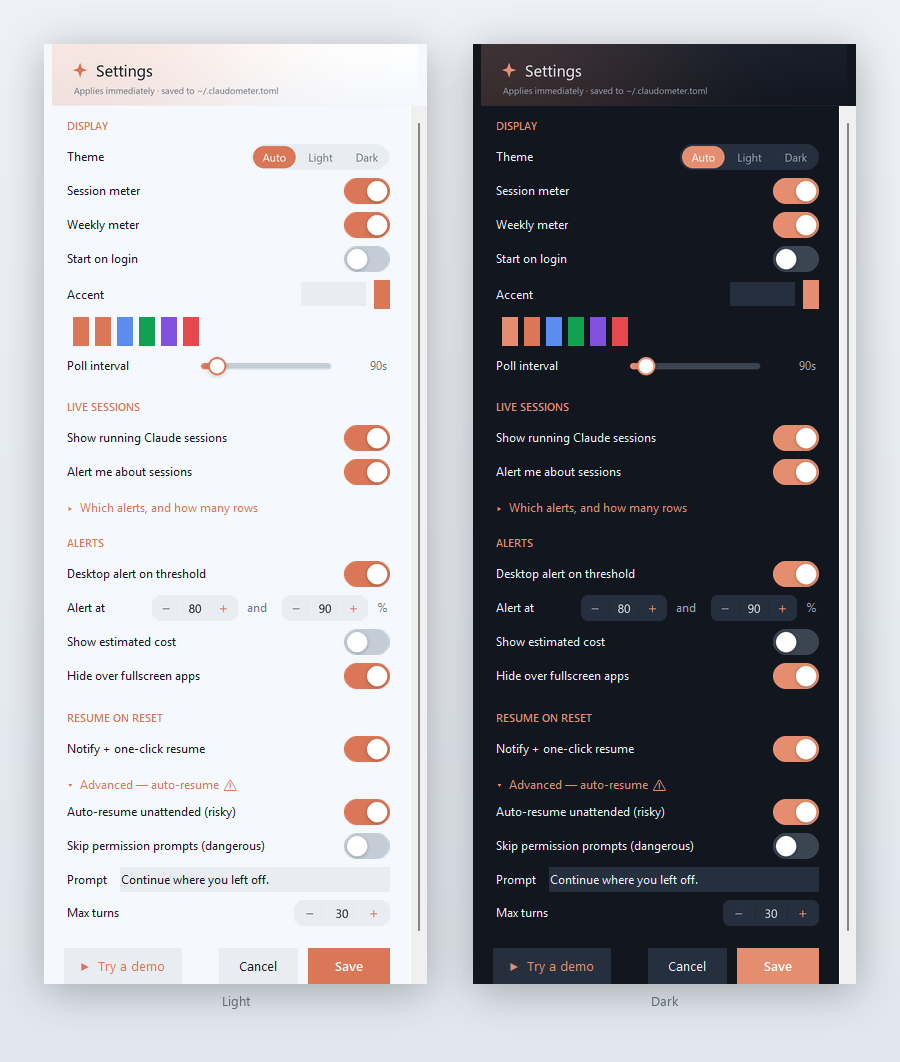
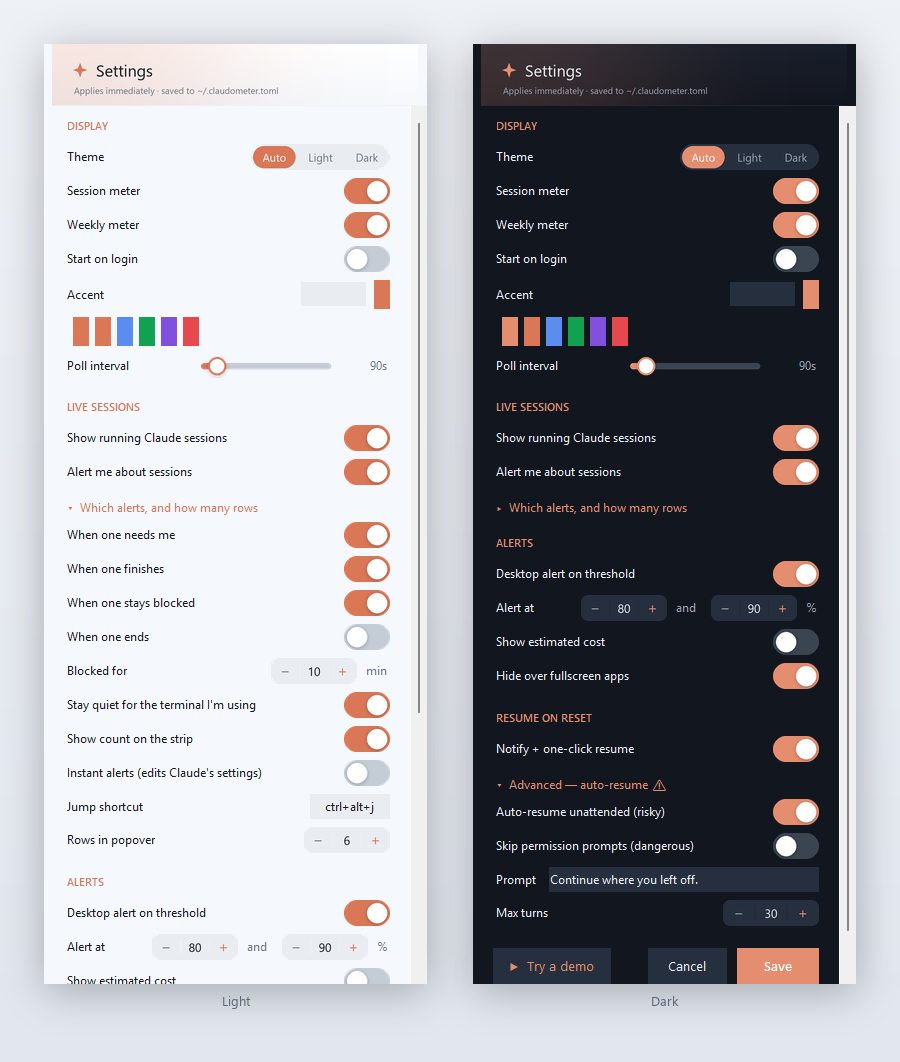
Fix a toast that could never be dismissed, and refresh the panel shot
A "needs you" toast has no timeout — only the session unblocking takes it
down. Switching the session monitor off returned from the tick before
that check ran, so the toast stayed on screen indefinitely with nothing
left running to close it. Turning the monitor off now retires it.

_blend could return None when handed a bad colour, and its result goes
straight to Pillow as a fill. It now always returns a usable colour.

The Settings screenshot predated the jump-shortcut row and never opened
the live-sessions group at all, so none of those options were visible.
The capture now expands that group in the light panel and keeps the
resume advanced group in the dark one — the body scrolls once it outgrows
the screen, so one shot cannot show every group at once.

diff --git a/tests/test_widget_sessions.py b/tests/test_widget_sessions.py
@@ -302,6 +302,43 @@ def test_the_sticky_toast_retires_when_the_session_unblocks():
     assert w._sess_sticky_pid == 0 and closed == [1]
 
 
+def test_the_sticky_toast_is_dismissed_when_sessions_are_turned_off():
+    closed = []
+
+    class T:
+        def close(self):
+            closed.append(1)
+
+    w = Widget()
+    _block(w, pid=7)
+    w._toast = T()
+    w._sessions_on = False
+    w._sessions_tick()
+    assert w._sess_sticky_pid == 0 and closed == [1], (
+        "a sticky toast has no timeout — switching the monitor off must take "
+        "it down, or it stays on screen forever")
+
+
+# --------------------------------------------------------------------------- #
+# _blend — its result goes straight to Pillow as a fill
+# --------------------------------------------------------------------------- #
+def test_blend_midpoint():
+    assert widget_bar._blend("#000000", "#ffffff", 0.5) == "#808080"
+
+
+@pytest.mark.parametrize("amount,expected", [(0, "#e8edf3"), (1, "#e5484d"),
+                                             (-3, "#e8edf3"), (5, "#e5484d")])
+def test_blend_clamps_the_amount(amount, expected):
+    assert widget_bar._blend("#e8edf3", "#e5484d", amount) == expected
+
+
+@pytest.mark.parametrize("a,b", [(None, "#ffffff"), ("bad", "#ffffff"),
+                                 ("#e8edf3", None), (None, None), (5, 7)])
+def test_blend_always_returns_a_usable_colour(a, b):
+    out = widget_bar._blend(a, b, 0.5)
+    assert isinstance(out, str) and out.startswith("#") and len(out) == 7, out
+
+
 def test_the_sticky_toast_survives_while_still_blocked():
     closed = []
 

diff --git a/widget_bar.py b/widget_bar.py
@@ -151,13 +151,23 @@ def _get_pixel(x, y):
         _user32.ReleaseDC(0, hdc)
 
 
+def _hexish(value):
+    return isinstance(value, str) and len(value) == 7 and value.startswith("#")
+
+
 def _blend(hex_a, hex_b, amount):
-    """Mix two #rrggbb colors; amount 0 = all a, 1 = all b."""
+    """Mix two #rrggbb colors; amount 0 = all a, 1 = all b.
+
+    Always returns something a renderer can use — the result goes straight to
+    Pillow as a fill, where a None would raise.
+    """
     try:
         a = tuple(int(hex_a[i:i + 2], 16) for i in (1, 3, 5))
         b = tuple(int(hex_b[i:i + 2], 16) for i in (1, 3, 5))
     except (TypeError, ValueError, IndexError):
-        return hex_a
+        if _hexish(hex_a):
+            return hex_a
+        return hex_b if _hexish(hex_b) else "#000000"
     amount = min(max(float(amount), 0.0), 1.0)
     return "#%02x%02x%02x" % tuple(
         int(round(x + (y - x) * amount)) for x, y in zip(a, b))
@@ -2227,6 +2237,10 @@ class BarWidget:
             return          # the tour drives the session list itself
         if not self._sessions_on:
             self._sess_disp = {}
+            # A "needs you" toast has no timeout, so switching the monitor off
+            # would otherwise leave it on screen forever with nothing left
+            # running to take it down.
+            self._retire_sticky_toast([])
             return
         try:
             self._drain_hook_events()

diff --git a/assets/capture_settings.py b/assets/capture_settings.py
@@ -52,7 +52,12 @@ def _capture(hwnd):
     return img
 
 
-def _grab(theme):
+def _grab(theme, expand=None):
+    """Capture the panel. *expand* opens one collapsible group.
+
+    The body scrolls once it outgrows the screen, so a single shot can't show
+    every group at once — the two themes open different ones between them.
+    """
     root = tk.Tk()
     root.geometry("100x24+0+0")  # tiny visible master so the child stays mapped
     cfg = settings.load(); cfg["resume_auto"] = True  # advanced opens by default
@@ -61,13 +66,19 @@ def _grab(theme):
     win.top.deiconify(); win.top.lift()
     for _ in range(30):
         win.top.update_idletasks(); win.top.update()
+    if expand == "sessions":
+        win._toggle_sessions()
+        for _ in range(30):
+            win.top.update_idletasks(); win.top.update()
     img = _capture(win.top.winfo_id())
     root.destroy()
     return img
 
 
 def main():
-    light, dark = _grab("light"), _grab("dark")
+    # Light shows the live-session options; dark shows the resume advanced
+    # group. Together they cover both collapsible sections.
+    light, dark = _grab("light", expand="sessions"), _grab("dark")
     m, gap = 44, 46
     W = m + light.width + gap + dark.width + m
     H = m + max(light.height, dark.height) + 34 + m
